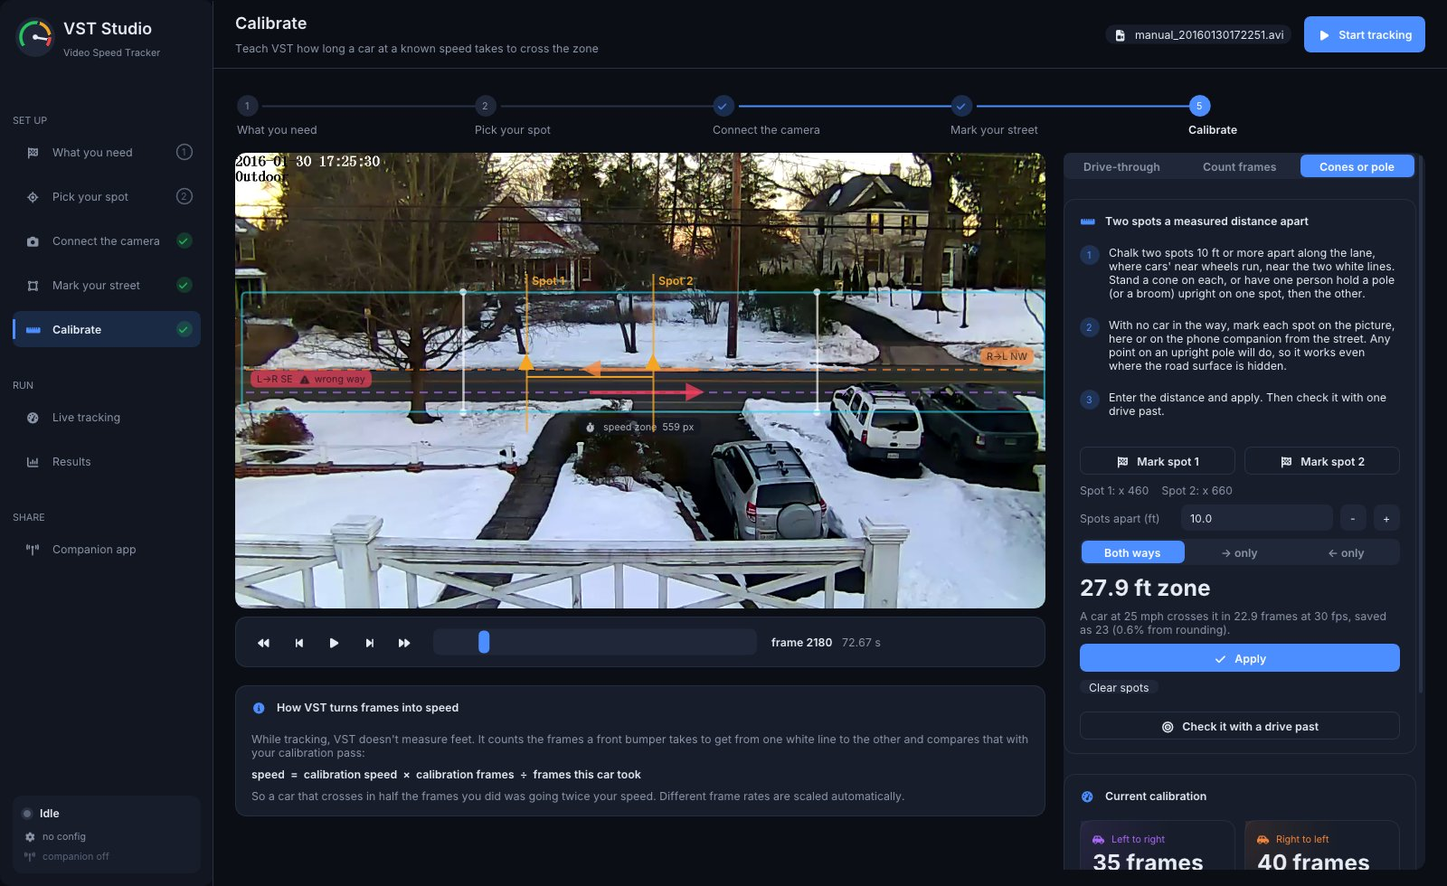
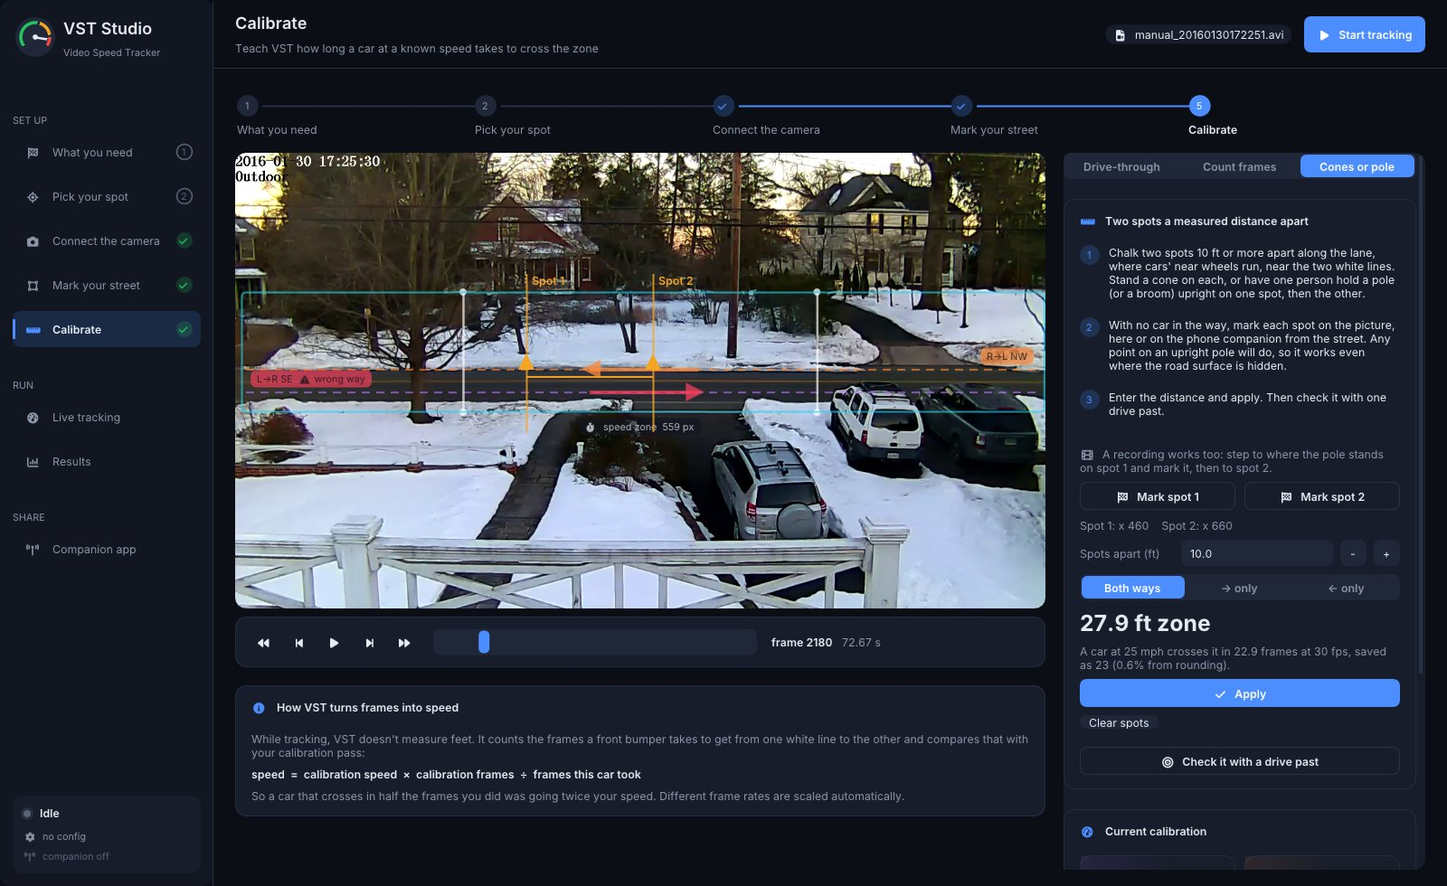
First run with no dead ends: phone-as-camera path, kinder copy, 14 ft everywhere
Joe wants "excited to plug this in and try": a bad camera, a phone that is the camera, or no
helper should each have an accounted-for way through, said encouragingly.

- Calibrate › Cones or pole: "On your own? Take two timed pictures" for live cameras. It copies
  the camera's frame 30 s after the press (pole on spot 1) and 20 s later (spot 2), with a large
  countdown on the picture; the canvas then shows each picture to click the pole on. Recorded
  videos get a note to step to each moment instead.
- Site planner: verdicts "Good to go / Works, a bit rougher / Needs a tweak"; the too-few-frames
  and no-zone texts say what still works and the one change that fixes it; "too fast" in red is
  "past this view" in amber; the short-view note is an invitation, not a warning.
- What you need: about 14 ft of street is enough; whatever camera you have is a fine start.
- Connect the camera: below-720p / under-24-fps checks say what still works; the camera-open
  error mentions a phone's webcam app and video calls.
- Aim card: a bump is caught by the camera-moved check and re-marking takes a minute.
- Companion page, phone Connect screen: a phone that is the camera can pair a second device or
  skip the companion, since every step works on the computer.
- Phone setup step 1: "100 feet of road" is now "any clear stretch from about 14 ft", and a
  short zone is an info note pointing to short-view timing rather than a warning.
[…]

Changed region(s): [[0.7188, 0.4898, 0.9688, 0.8265], [0.75, 0.8571, 0.9062, 0.9796], [0.875, 0.9184, 0.9375, 0.9796]]

diff --git a/companion/js/views/setup.js b/companion/js/views/setup.js
@@ -59,16 +59,16 @@ function spot({ vst, body, cfg, st, n }) {
     <h3>A good view has</h3>
     <div class="card">
       <div class="check">${icon('compass')}<p><b>The street crossing the picture side to side.</b> Aim straight across, not up or down the road; a window above street level is ideal.</p></div>
-      <div class="check">${icon('ruler')}<p><b>About 100 feet of road in view.</b> A car at the limit should take at least a second to cross the middle of the picture. A narrow street with only 15 ft or so in view works too, with short-view timing from VST Studio's site planner.</p></div>
-      <div class="check">${icon('camera')}<p><b>A steady 720p or 1080p picture at 30 fps.</b> Any webcam, a phone in webcam mode, or an IP camera (RTSP) works. Mount it so it can't shift.</p></div>
+      <div class="check">${icon('ruler')}<p><b>Any clear stretch of road from about 14 ft.</b> A narrow street seen from a front window works, with short-view timing (one click in VST Studio's site planner). More road lets it time faster cars.</p></div>
+      <div class="check">${icon('camera')}<p><b>Whatever camera you have, held still.</b> A webcam, a phone in webcam mode or an IP camera all work; 720p at 30 fps is plenty to start. A clamp or tripod keeps it from shifting.</p></div>
       <div class="check">${icon('sparkle')}<p><b>Little in the way.</b> A post or tree trunk is fine (you'll mark it), but avoid glare: put the lens against the glass and turn off room lights at night.</p></div>
     </div>
-    <div class="callout ${good ? '' : 'warn'}" style="margin-top:12px">${icon(good ? 'check' : 'warn')}
+    <div class="callout" style="margin-top:12px">${icon(good ? 'check' : 'info')}
       <p>${short
         ? html`Short-view timing is on, so VST times each car to a fraction of a frame and a short speed zone is fine.`
         : good
         ? html`With the current calibration a car at ${st.speedLimit} mph spends <b>${secs.toFixed(1)} s</b> in the speed zone. That is enough for a reliable reading.`
-        : html`A car at ${st.speedLimit} mph spends only <b>${secs.toFixed(1)} s</b> in the speed zone. Widen the zone in the next step, or move the camera further back, so it is at least 1 s.`}</p></div>
+        : html`A car at ${st.speedLimit} mph spends <b>${secs.toFixed(1)} s</b> in the speed zone, which is short for whole-frame timing. That's fine: turn on short-view timing in VST Studio's site planner (step 2, one click), or widen the zone in the next step.`}</p></div>
     ${nav(n, 'Looks good')}`.__html;
   $('#refresh').onclick = () => { $('#frame').src = vst.frameUrl(); };
 }

diff --git a/companion/js/views/connect.js b/companion/js/views/connect.js
@@ -32,6 +32,7 @@ export function render({ vst, view, start, probeResult }) {
       <div class="check"><b class="num" style="color:var(--accent)">2</b><p><b>Scan the QR code</b> it shows with this phone's camera. That opens the companion already paired.</p></div>
       <div class="check"><b class="num" style="color:var(--accent)">3</b><p><b>Add it to your home screen</b> so it opens like an app next time.</p></div>
     </div>
+    <p class="small muted" style="margin:4px 0 8px">Is this phone the camera? Pair a second phone or a tablet instead, or skip the companion: every step works in VST Studio on the computer.</p>
     <details style="margin-top:4px" ${tried ? 'open' : ''}><summary class="small muted">Can't scan? Enter it by hand</summary>
       <form class="card stack" id="manual" style="margin-top:4px">
         <label class="field"><span>Address shown under the QR code</span><input class="input" id="addr" inputmode="url" autocomplete="off" placeholder="192.168.1.20:8787" value="${vst.base.replace(/^https?:\/\//, '')}"></label>

diff --git a/src/Gui/App.cpp b/src/Gui/App.cpp
@@ -30,7 +30,7 @@ static ImTextureID tid(Texture& t) { return (ImTextureID)(intptr_t)t.imguiId(); 
 // table, so the rail, the stepper, the page headers and the Next buttons can't drift apart.
 const FlowStep kFlow[kFlowSteps] = {
 	{ "What you need", ICON_FLAG, "Everything you need to measure traffic on your street, in the order you'll use it", Page::Guide, 0 },
-	{ "Pick your spot", ICON_LOCATE, "Check that your window sees enough street before you buy or mount anything", Page::Guide, 1 },
+	{ "Pick your spot", ICON_LOCATE, "See what your window can measure, before you buy or mount anything", Page::Guide, 1 },
 	{ "Connect the camera", ICON_CAMERA, "A phone or USB camera, a network camera, or video you've already recorded", Page::Source, -1 },
 	{ "Mark your street", ICON_VECTOR, "Drag the lines on the picture; the tracker only looks inside the box", Page::Zones, -1 },
 	{ "Calibrate", ICON_RULER, "Teach VST how long a car at a known speed takes to cross the zone", Page::Calibrate, -1 },
@@ -752,7 +752,7 @@ void App::drawHeader(float w) {
 		runText = std::string(here > nextStep ? "Back to: " : "Next: ") + kFlow[nextStep].name + "  " + (here > nextStep ? ICON_ARROW_LEFT : ICON_ARROW_RIGHT);
 	const char* runLabel = runText.c_str();
 	bool calNag = !run && nextStep < 0 && !calibrationDone() && page != Page::Calibrate;
-	const char* calText = ICON_GAUGE "  Not calibrated";
+	const char* calText = ICON_GAUGE "  Not calibrated yet";
 	ImVec2 calSize = calNag ? pillSize(calText, fonts.body) : ImVec2(0, 0);
 	float bw = ImGui::CalcTextSize(runLabel).x + px(30);
 	float pauseW = run ? ImGui::GetFrameHeight() + px(10) : 0;
@@ -790,7 +790,7 @@ void App::drawHeader(float w) {
 	if (calNag) {
 		ImGui::SetCursorPos(ImVec2(right - bw - pauseW - cs.x - calSize.x - px(24), (hh - calSize.y) * .5f));
 		pill(calText, c::warn, alpha(c::warn, .14f), fonts.body);
-		if (ImGui::IsItemHovered()) ImGui::SetTooltip("Speeds use the calibration in %s, which wasn't made for this camera.\nClick to calibrate with one drive past.",
+		if (ImGui::IsItemHovered()) ImGui::SetTooltip("Speeds use the calibration in %s, which wasn't made for this camera.\nClick to calibrate: one drive past, or no car at all with cones or a pole.",
 			cfg.path().empty() ? "VST.cfg" : fs::path(cfg.path()).filename().string().c_str());
 		if (ImGui::IsItemClicked()) page = Page::Calibrate;
 	}
@@ -990,9 +990,9 @@ void App::pageSource() {
 			ImGui::TextUnformatted(good ? okText : badText);
 			ImGui::PopTextWrapPos();
 		};
-		check(in.height >= 720, "HD or better: plenty of detail", "Below 720p: bumpers get blurry; 1280×720 or better is best");
+		check(in.height >= 720, "HD or better: plenty of detail", "Below 720p: it works, with a little less detail; 1280×720 or better sharpens the bumpers");
 		if (in.kind == SourceInfo::Image) check(false, "", "A still photo: use it to plan zones; tracking needs video");
-		else check(in.fps == 0 || in.fps >= 24, "Frame rate is good for timing", "Under 24 fps: fast cars jump too far between frames");
+		else check(in.fps == 0 || in.fps >= 24, "Frame rate is good for timing", "Under 24 fps: everyday speeds time fine; the very fastest cars may cross too quickly");
 	}
 	else if (!player.error.empty()) {
 		ImGui::PushStyleColor(ImGuiCol_Text, v4(c::bad));
@@ -1392,6 +1392,22 @@ void App::dashcamSpeed(const Vehicle* picked) {
 void App::pageCalibrate() {
 	flowStepper();
 	Globals& g = cfg.g;
+	// The timed pictures for marking spots alone: each is a copy of the camera's frame at its moment.  Once both are
+	// taken the canvas shows the first and the next click marks spot 1 on it.
+	if (coneTimerAt_ >= 0 && player.isOpen()) {
+		double t = now() - coneTimerAt_;
+		for (int i = 0; i < 2; i++)
+			if (coneShot_[i].empty() && t >= kConeFirstS + i * kConeGapS) coneShot_[i] = player.frame().clone();
+		if (!coneShot_[1].empty()) {
+			coneTimerAt_ = -1;
+			coneView_ = 0;
+			conePlacing_ = 0;
+			coneX_[0] = coneX_[1] = coneY_[0] = coneY_[1] = -1;
+			toast("Both pictures taken. Click the pole in each one to mark spots 1 and 2.", c::ok, ICON_CHECK);
+		}
+	}
+	bool coneShots = !coneShot_[0].empty() && !coneShot_[1].empty();
+	if (!coneShots || calibMode_ != 2) coneView_ = -1;
 	float avail = ImGui::GetContentRegionAvail().x, availH = ImGui::GetContentRegionAvail().y;
 	float sideW = px(400);
 	float canvasW = avail - sideW - px(20);
@@ -1400,7 +1416,10 @@ void App::pageCalibrate() {
 	ImGui::BeginGroup();
 	float canvasH = std::min(availH - barH - px(10), canvasW * 9 / 16);
 	ImGui::BeginChild("ccanvas", ImVec2(canvasW, canvasH), 0, ImGuiWindowFlags_NoScrollbar | ImGuiWindowFlags_NoScrollWithMouse);
-	View v = drawFrame(player.isOpen() ? player.texture().imguiId() : nullptr, ImGui::GetContentRegionAvail(), "Open the video of your calibration drive");
+	// In the cones-or-pole mode the canvas can show one of the timed pictures instead of the camera.
+	if (coneView_ >= 0 && coneTexOf_ != coneView_) { coneTex_.update(coneShot_[coneView_]); coneTexOf_ = coneView_; }
+	void* tex = coneView_ >= 0 ? coneTex_.imguiId() : player.isOpen() ? player.texture().imguiId() : nullptr;
+	View v = drawFrame(tex, ImGui::GetContentRegionAvail(), "Open a video or connect the camera (step 3)");
 	OverlayStyle st;
 	st.opacity = .75f;
 	st.dimOutside = false;
@@ -1436,6 +1455,17 @@ void App::pageCalibrate() {
 			ImVec2 a = v.at(coneX_[0], coneY_[0]), b = v.at(coneX_[1], coneY_[0]);
 			dl->AddLine(a + ImVec2(0, px(8)), b + ImVec2(0, px(8)), c::warn, px(2));
 		}
+		if (coneTimerAt_ >= 0) {
+			// Big enough to read from across the room on the way out.
+			double t = now() - coneTimerAt_;
+			int which = coneShot_[0].empty() ? 0 : 1;
+			int left = int(std::ceil(kConeFirstS + which * kConeGapS - t));
+			std::string s = "Picture of spot " + std::to_string(which + 1) + " in " + std::to_string(std::max(left, 0)) + " s";
+			ImVec2 ts = fonts.title->CalcTextSizeA(fsz(fonts.title), FLT_MAX, 0, s.c_str());
+			ImVec2 tp = v.origin + ImVec2((v.size.x - ts.x) * .5f, px(16));
+			dl->AddRectFilled(tp - ImVec2(px(12), px(8)), tp + ts + ImVec2(px(12), px(8)), alpha(c::bg0, .85f), px(8));
+			dl->AddText(fonts.title, fsz(fonts.title), tp, c::warn, s.c_str());
+		}
 		if (conePlacing_ >= 0) {
 			ImGui::SetMouseCursor(ImGuiMouseCursor_Hand);
 			std::string t = "Click the cone or pole at spot " + std::to_string(conePlacing_ + 1);
@@ -1450,6 +1480,7 @@ void App::pageCalibrate() {
 				coneX_[conePlacing_] = f.x;
 				coneY_[conePlacing_] = f.y;
 				conePlacing_ = coneX_[1 - conePlacing_] < 0 ? 1 - conePlacing_ : -1;   // straight on to the other cone
+				if (coneShots && conePlacing_ >= 0) coneView_ = conePlacing_;          // on its own picture
 			}
 		}
 	}
@@ -1613,14 +1644,46 @@ void App::pageCalibrate() {
 			"Any point on an upright pole will do, so it works even where the road surface is hidden.");
 		stepLine(3, "Enter the distance and apply. Then check it with one drive past.");
 		ImGui::Dummy(ImVec2(0, px(4)));
+		// On your own, or with the phone busy being the camera: two timed pictures (live cameras), or the recording.
+		bool live = player.isOpen() && (player.info().kind == SourceInfo::Camera || player.info().kind == SourceInfo::Stream);
+		if (live && coneTimerAt_ < 0) {
+			if (ghostButton(ICON_STOPWATCH "  On your own? Take two timed pictures", ImVec2(-FLT_MIN, 0))) {
+				coneShot_[0].release();
+				coneShot_[1].release();
+				coneTimerAt_ = now();
+				coneTexOf_ = -1;
+				conePlacing_ = -1;
+			}
+			if (ImGui::IsItemHovered())
+				ImGui::SetTooltip("Press it, walk out, and hold the pole upright on spot 1 for the first picture (%.0f s from now),\n"
+					"then on spot 2 for the second (%.0f s after that). Come back and click the pole in each picture.", kConeFirstS, kConeGapS);
+		}
+		else if (live) {
+			ImGui::PushTextWrapPos(0);
+			dimText(ICON_STOPWATCH "  Hold the pole on spot 1 for the first picture, then on spot 2 for the second, %.0f s later.", kConeGapS);
+			ImGui::PopTextWrapPos();
+			if (ImGui::SmallButton("Cancel the timer")) coneTimerAt_ = -1;
+		}
+		else if (player.isOpen() && player.seekable()) {
+			ImGui::PushTextWrapPos(0);
+			dimText(ICON_FILM "  A recording works too: step to where the pole stands on spot 1 and mark it, then to spot 2.");
+			ImGui::PopTextWrapPos();
+		}
+		if (coneShots) {
+			static const char* const views[] = { "Camera", "Spot 1 picture", "Spot 2 picture" };
+			int sel = coneView_ + 1;
+			if (segmented("coneview", &sel, views, 3)) coneView_ = sel - 1;
+		}
 		float bw = (ImGui::GetContentRegionAvail().x - px(10)) * .5f;
-		ImGui::BeginDisabled(!player.isOpen());
+		ImGui::BeginDisabled(!player.isOpen() && !coneShots);
 		for (int i = 0; i < 2; i++) {
 			if (i) ImGui::SameLine(0, px(10));
 			std::string label = std::string(conePlacing_ == i ? ICON_CROSSHAIRS "  Click the picture" : ICON_FLAG "  Mark spot ")
 				+ (conePlacing_ == i ? "" : std::to_string(i + 1)) + "##cone" + std::to_string(i);
-			if (conePlacing_ == i ? primaryButton(label.c_str(), ImVec2(bw, 0)) : ghostButton(label.c_str(), ImVec2(bw, 0)))
+			if (conePlacing_ == i ? primaryButton(label.c_str(), ImVec2(bw, 0)) : ghostButton(label.c_str(), ImVec2(bw, 0))) {
 				conePlacing_ = conePlacing_ == i ? -1 : i;
+				if (coneShots && conePlacing_ >= 0) coneView_ = conePlacing_;
+			}
 		}
 		ImGui::EndDisabled();
 		auto coneText = [&](int i) { return coneX_[i] < 0 ? std::string("not marked") : "x " + std::to_string(int(std::lround(coneX_[i]))); };
@@ -2543,7 +2606,8 @@ void App::pageCompanion() {
 
 	beginCard("remote", ICON_BROADCAST, "Remote companion", ImVec2(leftW, 0));
 	dimText("Open VST on your phone to check the camera's aim, help with calibration from the street, and see recent speeders, "
-		"while this computer keeps tracking. Your phone needs to be on the same Wi-Fi network.");
+		"while this computer keeps tracking. Your phone needs to be on the same Wi-Fi network. Is your phone the camera? Pair a second "
+		"phone or a tablet, or skip this: every step works from this computer, and Calibrate can take timed pictures while you're outside.");
 	ImGui::Dummy(ImVec2(0, px(4)));
 	bool want = on;
 	if (ImGui::Checkbox("Allow the companion app to connect", &want)) setRemote(want);

diff --git a/src/Gui/Guide.cpp b/src/Gui/Guide.cpp
@@ -220,8 +220,8 @@ void App::shortViewNote(double coverM, bool on) {
 	ImGui::PushTextWrapPos(0);
 	if (on) dimText(ICON_CHECK "  Short-view timing is on: VST times each car's front bumper to a fraction of a frame, so it doesn't need a whole car in view.");
 	else {
-		ImGui::PushStyleColor(ImGuiCol_Text, v4(c::warn));
-		ImGui::TextWrapped(ICON_INFO "  This is a short view. It needs short-view timing, which times each car's front bumper to a fraction of a frame instead of whole frames.");
+		ImGui::PushStyleColor(ImGuiCol_Text, v4(c::accent));
+		ImGui::TextWrapped(ICON_INFO "  A short view like this is what short-view timing is for: it times each car's front bumper to a fraction of a frame. One click sets it up.");
 		ImGui::PopStyleColor();
 	}
 	ImGui::PopTextWrapPos();
@@ -349,12 +349,12 @@ void App::sitePlanner() {
 	bool tooFew = shortView && r.samples < kMinSamples;
 	int verdict = r.zone <= 0 || tooFew ? 2 : grade(r.total, 1.5, 3);
 	beginCard("planout", nullptr, nullptr, ImVec2(outW, 0));
-	const char* vtext[] = { "Workable", "Marginal", "Not enough room" };
+	const char* vtext[] = { "Good to go", "Works, a bit rougher", "Needs a tweak" };
 	linePill(vtext[verdict], c::bg0, gradeColor(verdict), fonts.strong);
 	ImGui::SameLine();
 	ImGui::AlignTextToFramePadding();
-	if (r.zone <= 0) ImGui::TextUnformatted("Less than a couple of feet of street is in view. Move back, or use a wider lens.");
-	else if (tooFew) ImGui::Text("At %d mph a car crosses the %.0f ft zone in %.0f frames, too few to time. Use a 60 fps camera, or see more of the street.", check, r.zone * 3.281, r.frames);
+	if (r.zone <= 0) ImGui::TextUnformatted("Only a couple of feet of street fit in the picture. Set the camera further back or zoom out, and it will fit.");
+	else if (tooFew) ImGui::Text("A car at %d mph crosses the %.0f ft zone in %.0f frames. Slower cars still time fine; a 60 fps camera or a little more street times this one too.", check, r.zone * 3.281, r.frames);
 	else ImGui::Text("About ±%.1f mph at %d mph, over a %.0f ft zone.", r.total, check, r.zone * 3.281);
 	if (shortView && r.zone > 0) {
 		// The fastest car this view can time, and what 60 fps would make of it: the spec a short view is bought on.
@@ -411,7 +411,7 @@ void App::sitePlanner() {
 			ImGui::TableNextColumn(); ImGui::TextColored(v4(speedColor(mph, prefs.speedLimit, prefs.egregious)), "%d mph", mph);
 			ImGui::TableNextColumn(); ImGui::Text("%.0f", shortView ? e.samples : e.frames);
 			if (!std::isfinite(e.total)) {
-				ImGui::TableNextColumn(); ImGui::TextColored(v4(c::bad), "too fast");
+				ImGui::TableNextColumn(); ImGui::TextColored(v4(c::warn), "past this view");
 				ImGui::TableNextColumn(); ImGui::TableNextColumn();
 				ImGui::TableNextColumn(); ImGui::Text("%.0f px", e.blurPx);
 				continue;
@@ -433,7 +433,7 @@ void App::aimCard(float width) {
 	beginCard("aim", ICON_CROSSHAIRS, "Aim it like this", ImVec2(width, 0));
 	aimSketch(ImVec2(ImGui::GetContentRegionAvail().x, px(220)));
 	bullet(ICON_ARROWS_LR, c::accent2, "Street across the middle", "Point straight across the street. Lenses distort near the edges, so keep the lanes in the middle third of the picture.");
-	bullet(ICON_LOCATE, c::accent2, "Hold it still", "A window clamp or tripod. Once the street is marked, even a small bump means marking it and calibrating again.");
+	bullet(ICON_LOCATE, c::accent2, "Hold it still", "A window clamp or tripod. If it does get bumped, VST notices the view moved and says so; marking the street again takes a minute.");
 	bullet(ICON_SUN, c::accent2, "Mind the glare", "Avoid pointing into the sun, and put the lens right against the glass (a dark cloth around it kills reflections).");
 	endCard();
 }
@@ -457,14 +457,15 @@ void App::pageGuide() {
 		ImGui::TextUnformatted("Measure the traffic on your street");
 		ImGui::PopFont();
 		lead("VST times every car that passes between two lines on your video and works out its speed. Setting it up takes "
-			"about half an hour, in five steps. Here is what each one needs. Nothing leaves your computer.");
+			"about half an hour, in five steps. Here is what each one needs. Nothing leaves your computer. Whatever camera you have is a fine "
+			"place to start, and every step has a way through if something isn't to hand yet.");
 		// One card per later step, in step order, each naming its step, so the list reads as the plan.
 		float cw = (avail - px(48)) / 4, ch = px(222);
 		gearCard("g2", ICON_LOCATE, c::accent2, "A window on the street", "Step 2 · Pick your spot",
-			"Somewhere that sees the street from the side. 15 ft of clear street is enough; more is better. You'll check it next.", ImVec2(cw, ch));
+			"Somewhere that sees the street from the side. About 14 ft of clear street is enough; more lets it time faster cars. You'll check it next.", ImVec2(cw, ch));
 		ImGui::SameLine(0, px(16));
 		gearCard("g3", ICON_CAMERA, c::accent, "A camera, held still", "Step 3 · Connect the camera",
-			"A phone, webcam or IP camera at 720p or better and 25-30 fps (60 for a short view), on a window clamp or tripod.", ImVec2(cw, ch));
+			"Whatever you have: a phone, webcam or IP camera, on a window clamp or tripod. 30 fps is fine; 60 fps times faster cars on a short view.", ImVec2(cw, ch));
 		ImGui::SameLine(0, px(16));
 		gearCard("g4", ICON_VECTOR, c::warn, "A few minutes with the picture", "Step 4 · Mark your street",
 			"Drag a box around the moving lane and two lines to time between. Say which way a one-way street runs.", ImVec2(cw, ch));

diff --git a/src/Gui/App.h b/src/Gui/App.h
@@ -160,6 +160,16 @@ public:
 	int conePlacing_ = -1;
 	double coneFt_ = 10;
 	int coneDir_ = 0;
+	// The same alone, with one pole and nobody at the computer (or the phone busy being the camera): timed pictures.
+	// Start the timer, walk out, hold the pole on spot 1 for the first picture (kConeFirstS after the start) and on
+	// spot 2 for the second (kConeGapS later), then come back and click the pole in each picture.  coneTimerAt_ is
+	// now() at the start (-1 = no timer); coneView_ is the picture the Calibrate canvas shows (-1 = the camera itself),
+	// coneTexOf_ the one uploaded to coneTex_.
+	static constexpr double kConeFirstS = 30, kConeGapS = 20;
+	cv::Mat coneShot_[2];
+	double coneTimerAt_ = -1;
+	int coneView_ = -1, coneTexOf_ = -1;
+	Texture coneTex_;
 	std::unique_ptr<Server> server;
 	bool screenshotMode = false;        // documentation captures (main.cpp --shots)
 	bool persist = true;                // save preferences on exit

diff --git a/src/Gui/Media.cpp b/src/Gui/Media.cpp
@@ -116,7 +116,7 @@ bool Player::open(const std::string& path) {
 	}
 	bool ok = info_.kind == SourceInfo::Camera ? cap_.open(std::stoi(path)) : cap_.open(path);
 	if (!ok || !cap_.isOpened()) {
-		error = info_.kind == SourceInfo::Camera ? "Can't open " + info_.label + ". Check it's plugged in and not in use by another app, or pick another number."
+		error = info_.kind == SourceInfo::Camera ? "Can't open " + info_.label + " yet. Check it's plugged in (for a phone, that its webcam app is running) and that no other app, like a video call, is using it. Or try another number."
 			: info_.kind == SourceInfo::Stream ? "Can't connect to " + info_.label + ". Check the address, user name and password, and that the camera is on this network."
 			: "Can't open " + info_.label + ". It may be damaged or in a format VST can't read; converting it to MP4 usually helps (ffmpeg -i in.ext -c:v libx264 out.mp4).";
 		return false;

diff --git a/docs/getting-started.md b/docs/getting-started.md
@@ -21,10 +21,12 @@ go before you mount anything.
 3. **Follow the five setup steps.** What you need, Pick your spot, Connect the camera, Mark your street and
    Calibrate, numbered the same in the side rail and across the top of each step. The header's main button always
    names the next step, then becomes Start tracking. No camera yet? Step 3 offers the bundled sample video, so you
-   can watch cars get measured first.
+   can watch cars get measured first. Not calibrated yet? Tracking still runs; speeds firm up once you calibrate.
 4. **Leave it running.** VST Studio reconnects to a camera that drops out and keeps video under a disk budget.
    It warns if the camera gets knocked out of line, and logs each day to `Stats/health.csv`.
-5. **Pair your phone** on the Companion page to aim the camera and help calibrate from the curb.
+5. **Pair your phone** on the Companion page to aim the camera and help calibrate from the curb. Phone busy being
+   the camera? Pair a second phone or a tablet, or skip it: every step works on the computer, and Calibrate can take
+   timed pictures while you stand the pole outside.
 6. **Make a street report** from Results when you have a week or two of data.
 
 Everything in VST Studio is described in [VST Studio](vst-studio.md). The rest of this guide covers the same

diff --git a/docs/vst-studio.md b/docs/vst-studio.md
@@ -115,6 +115,11 @@ can turn into one.
   The phone companion has the same step (Setup › Calibration drive › *No car handy?*), so you can stand on the
   street with the phone on your Wi-Fi, see yourself and the pole on the live picture, tap it and apply there.
 
+  On your own, or with the phone busy being the camera, **Take two timed pictures**: press it, walk out, and hold
+  the pole on spot 1 for the first picture (30 s later) and on spot 2 for the second (20 s after that). A countdown on
+  the picture says which is next. Back at the computer, click the pole in each picture. With a recorded video instead
+  of a live camera, step to where the pole stands on each spot and mark it there.
+
 ![Cones or pole](images/studio/07d-calibrate-cones.jpg)
 
 All three keep the other direction's calibration valid by expressing it against the same `CalibrationSpeed` and

diff --git a/README.md b/README.md
@@ -33,6 +33,10 @@ the speed limit. For a speed limit of 25 MPH, that’s about 37 feet. My speed m
 1-1/3 seconds wide, which translates to about 50 feet for a vehicle going 25 MPH. I’ve been
 able to track vehicles up to 71 MPH (Blue line on the front bumper the whole way!).
 
+   *Note:* that's for whole-frame timing. A narrow street seen from a front window works too: with short-view timing
+   (one click in VST Studio's site planner) about 14 ft of clear street is enough. At 30 fps a 15 ft view times cars up
+   to about 45 mph; at 60 fps, over 70.
+
 2. You need an HD (1280 x 720) video input stream for the stretch of street you want to analyze.
 That requires a camera. I’m using the Foscam FI9803EP outdoor, HD, power over ethernet
 camera. It’s about $90 online. I have no particular loyalty to Foscam, but I can say I’ve had
